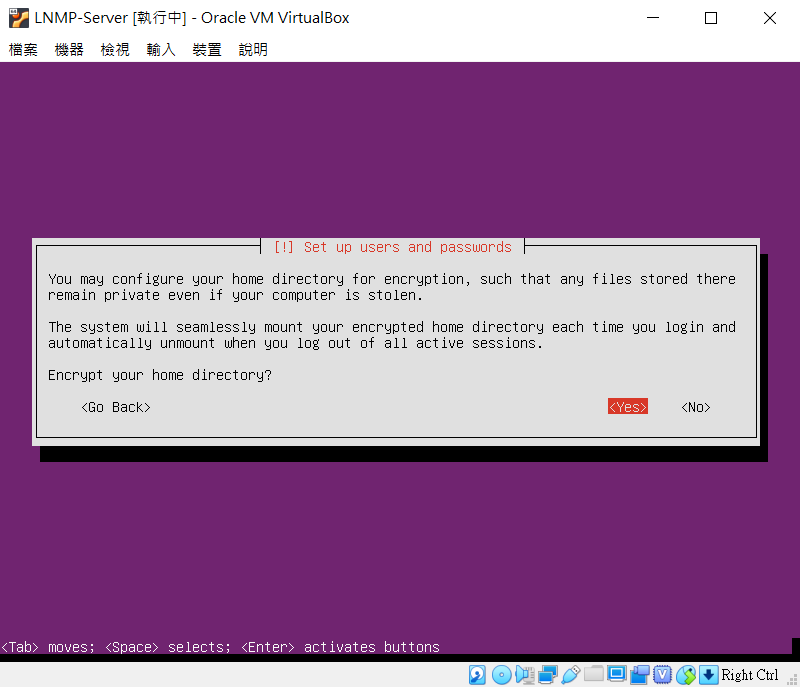
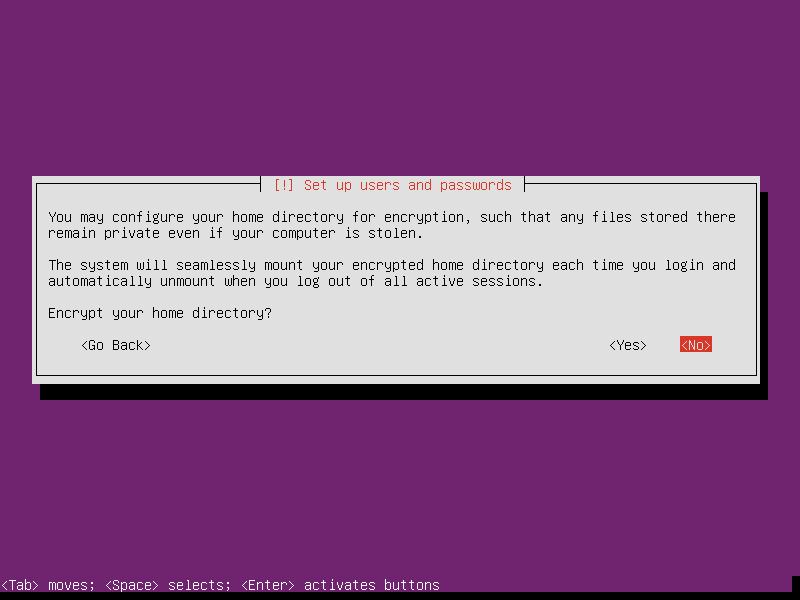
Site updated: 2019-08-15 22:58:22

diff --git a/index.html b/index.html
@@ -324,7 +324,7 @@
     
 
     <footer class="article-footer">
-      <a data-url="https://blog.mars-world.net/2019/07/24/account-security-setting/" data-id="cjyswwcae003d1wufke6ltx7o" class="article-share-link">
+      <a data-url="https://blog.mars-world.net/2019/07/24/account-security-setting/" data-id="cjzct5o1k000qlcufn5ggq8nu" class="article-share-link">
         <i class="fa fa-share"></i> Share
       </a>
       
@@ -441,7 +441,7 @@
     
 
     <footer class="article-footer">
-      <a data-url="https://blog.mars-world.net/2019/07/21/composer-install/" data-id="cjyswwc8z000j1wufbj3mh6le" class="article-share-link">
+      <a data-url="https://blog.mars-world.net/2019/07/21/composer-install/" data-id="cjzct5o1e000jlcuf2bb57jko" class="article-share-link">
         <i class="fa fa-share"></i> Share
       </a>
       
@@ -608,7 +608,7 @@
     
 
     <footer class="article-footer">
-      <a data-url="https://blog.mars-world.net/2019/07/21/git-install/" data-id="cjyswwc95000l1wufqi5tu7tj" class="article-share-link">
+      <a data-url="https://blog.mars-world.net/2019/07/21/git-install/" data-id="cjzct5o1h000llcufv5hjd8m1" class="article-share-link">
         <i class="fa fa-share"></i> Share
       </a>
       
@@ -716,7 +716,7 @@
     
 
     <footer class="article-footer">
-      <a data-url="https://blog.mars-world.net/2019/07/20/crud-design-01/" data-id="cjyswwc8w000f1wufhz3ttc6z" class="article-share-link">
+      <a data-url="https://blog.mars-world.net/2019/07/20/crud-design-01/" data-id="cjzct5o1b000flcufym0h67a2" class="article-share-link">
         <i class="fa fa-share"></i> Share
       </a>
       
@@ -900,7 +900,7 @@
 <li><p>輸入密碼</p>
 <p><img src="05-install-ubuntu-15.png" alt></p>
 </li>
-<li><p>建立帳號的家目錄[建議Yes]</p>
+<li><p>加密帳號的家目錄[建議No]</p>
 <p><img src="05-install-ubuntu-16.png" alt></p>
 </li>
 <li><p>系統時區設定 Asia/Taipei</p>
@@ -1198,7 +1198,7 @@
     
 
     <footer class="article-footer">
-      <a data-url="https://blog.mars-world.net/2019/07/19/www-server-install/" data-id="cjyswwcba003t1wufkhiarlor" class="article-share-link">
+      <a data-url="https://blog.mars-world.net/2019/07/19/www-server-install/" data-id="cjzct5o3l003tlcuff4c7crnq" class="article-share-link">
         <i class="fa fa-share"></i> Share
       </a>
       
@@ -1335,7 +1335,7 @@
     
 
     <footer class="article-footer">
-      <a data-url="https://blog.mars-world.net/2019/07/03/phpunit/" data-id="cjyswwc8u000e1wufosw8za8m" class="article-share-link">
+      <a data-url="https://blog.mars-world.net/2019/07/03/phpunit/" data-id="cjzct5o19000elcufrsbqrryf" class="article-share-link">
         <i class="fa fa-share"></i> Share
       </a>
       
@@ -1422,7 +1422,7 @@
     
 
     <footer class="article-footer">
-      <a data-url="https://blog.mars-world.net/2019/06/03/program-structure/" data-id="cjyswwc8r000a1wufhlqbbvgm" class="article-share-link">
+      <a data-url="https://blog.mars-world.net/2019/06/03/program-structure/" data-id="cjzct5o17000alcufim2dsqt1" class="article-share-link">
         <i class="fa fa-share"></i> Share
       </a>
       
@@ -1566,7 +1566,7 @@
     
 
     <footer class="article-footer">
-      <a data-url="https://blog.mars-world.net/2019/05/31/code-tracking/" data-id="cjyswwc8m00061wufonbvukwl" class="article-share-link">
+      <a data-url="https://blog.mars-world.net/2019/05/31/code-tracking/" data-id="cjzct5o130006lcuf4pkblslj" class="article-share-link">
         <i class="fa fa-share"></i> Share
       </a>
       
@@ -1651,7 +1651,7 @@
     
 
     <footer class="article-footer">
-      <a data-url="https://blog.mars-world.net/2019/05/30/nodejs-install/" data-id="cjyswwc8p00091wufsw07wedl" class="article-share-link">
+      <a data-url="https://blog.mars-world.net/2019/05/30/nodejs-install/" data-id="cjzct5o0x0005lcufm4qid693" class="article-share-link">
         <i class="fa fa-share"></i> Share
       </a>
       
@@ -1777,7 +1777,7 @@
     
 
     <footer class="article-footer">
-      <a data-url="https://blog.mars-world.net/2019/05/27/vscode-remote-ssh/" data-id="cjyswwc8j00051wuf4qur16qe" class="article-share-link">
+      <a data-url="https://blog.mars-world.net/2019/05/27/vscode-remote-ssh/" data-id="cjzct5o150009lcuf1ey3si2t" class="article-share-link">
         <i class="fa fa-share"></i> Share
       </a>
       

diff --git a/page/2/index.html b/page/2/index.html
@@ -266,7 +266,7 @@
 </tr>
 <tr>
 <td style="text-align:left">@author</td>
-<td style="text-align:left">函數建立者名稱 (Example: @author Mars <a href="mailto:&#x61;&#117;&#116;&#104;&#x6f;&#114;&#x40;&#103;&#109;&#97;&#x69;&#x6c;&#x2e;&#x63;&#111;&#x6d;" target="_blank" rel="noopener">&#x61;&#117;&#116;&#104;&#x6f;&#114;&#x40;&#103;&#109;&#97;&#x69;&#x6c;&#x2e;&#x63;&#111;&#x6d;</a>)</td>
+<td style="text-align:left">函數建立者名稱 (Example: @author Mars <a href="mailto:&#x61;&#x75;&#x74;&#104;&#111;&#114;&#64;&#x67;&#x6d;&#x61;&#105;&#108;&#x2e;&#99;&#111;&#109;" target="_blank" rel="noopener">&#x61;&#x75;&#x74;&#104;&#111;&#114;&#64;&#x67;&#x6d;&#x61;&#105;&#108;&#x2e;&#99;&#111;&#109;</a>)</td>
 </tr>
 <tr>
 <td style="text-align:left">@category</td>
@@ -666,7 +666,7 @@
     
 
     <footer class="article-footer">
-      <a data-url="https://blog.mars-world.net/2019/05/03/coding-style-standard/" data-id="cjyswwcb8003s1wufsnpz73ky" class="article-share-link">
+      <a data-url="https://blog.mars-world.net/2019/05/03/coding-style-standard/" data-id="cjzct5o3k003slcuf3xumniuv" class="article-share-link">
         <i class="fa fa-share"></i> Share
       </a>
       
@@ -789,7 +789,7 @@
     
 
     <footer class="article-footer">
-      <a data-url="https://blog.mars-world.net/2019/04/20/github-blog/" data-id="cjyswwc8h00041wuf6zo6trk8" class="article-share-link">
+      <a data-url="https://blog.mars-world.net/2019/04/20/github-blog/" data-id="cjzct5o0t0004lcufk6mlsjcm" class="article-share-link">
         <i class="fa fa-share"></i> Share
       </a>
       
@@ -943,7 +943,7 @@
     
 
     <footer class="article-footer">
-      <a data-url="https://blog.mars-world.net/2019/04/15/test-specification/" data-id="cjyswwc8c00011wuf1nugxawh" class="article-share-link">
+      <a data-url="https://blog.mars-world.net/2019/04/15/test-specification/" data-id="cjzct5o0o0001lcuf3mwtffbc" class="article-share-link">
         <i class="fa fa-share"></i> Share
       </a>
       
@@ -1017,7 +1017,7 @@
     
 
     <footer class="article-footer">
-      <a data-url="https://blog.mars-world.net/2017/09/11/dev-doc-sop-sample/" data-id="cjyswwc8300001wuftj4bx1e4" class="article-share-link">
+      <a data-url="https://blog.mars-world.net/2017/09/11/dev-doc-sop-sample/" data-id="cjzct5o0i0000lcuffogaidsv" class="article-share-link">
         <i class="fa fa-share"></i> Share
       </a>
       
@@ -1281,7 +1281,7 @@
     
 
     <footer class="article-footer">
-      <a data-url="https://blog.mars-world.net/2017/09/11/dev-doc-sop/" data-id="cjyswwcag003e1wuf2gujqsiq" class="article-share-link">
+      <a data-url="https://blog.mars-world.net/2017/09/11/dev-doc-sop/" data-id="cjzct5o2t003nlcufg0v8lwyv" class="article-share-link">
         <i class="fa fa-share"></i> Share
       </a>
       

diff --git a/2019/07/19/www-server-install/index.html b/2019/07/19/www-server-install/index.html
@@ -74,7 +74,7 @@
 <meta property="og:image" content="https://blog.mars-world.net/2019/07/19/www-server-install/2019-07-19-www-server-install/dns-resolve.png">
 <meta property="og:image" content="https://blog.mars-world.net/2019/07/19/www-server-install/09-ca-install-01.png">
 <meta property="og:image" content="https://blog.mars-world.net/2019/07/19/www-server-install/2019-07-19-www-server-install/dns-resolve.png">
-<meta property="og:updated_time" content="2019-07-29T15:04:32.700Z">
+<meta property="og:updated_time" content="2019-08-15T14:53:32.614Z">
 <meta name="twitter:card" content="summary">
 <meta name="twitter:title" content="Web伺服器安裝(LNMP)">
 <meta name="twitter:description" content="一、說明安裝網頁執行平台，以供開發作業 很多人都知道，windows有不少PHP開發環境的安裝包，如xampp, appserv, wamp，但一個成熟的開發者，是不會用和線上不一樣的環境開發的，這會導至開發出來的程式有無法預期的錯誤，所以學習安裝一個LNMP環境是有必要的。 二、環境 windows virtualbox Ubuntu 16.04 Nignx 1.10 PHP 7 MySQL 5">
@@ -307,7 +307,7 @@
 <li><p>輸入密碼</p>
 <p><img src="05-install-ubuntu-15.png" alt></p>
 </li>
-<li><p>建立帳號的家目錄[建議Yes]</p>
+<li><p>加密帳號的家目錄[建議No]</p>
 <p><img src="05-install-ubuntu-16.png" alt></p>
 </li>
 <li><p>系統時區設定 Asia/Taipei</p>
@@ -605,7 +605,7 @@
     
 
     <footer class="article-footer">
-      <a data-url="https://blog.mars-world.net/2019/07/19/www-server-install/" data-id="cjyswwcba003t1wufkhiarlor" class="article-share-link">
+      <a data-url="https://blog.mars-world.net/2019/07/19/www-server-install/" data-id="cjzct5o3l003tlcuff4c7crnq" class="article-share-link">
         <i class="fa fa-share"></i> Share
       </a>
       

diff --git a/2019/05/03/coding-style-standard/index.html b/2019/05/03/coding-style-standard/index.html
@@ -268,7 +268,7 @@
 </tr>
 <tr>
 <td style="text-align:left">@author</td>
-<td style="text-align:left">函數建立者名稱 (Example: @author Mars <a href="mailto:&#x61;&#117;&#116;&#104;&#x6f;&#114;&#x40;&#103;&#109;&#97;&#x69;&#x6c;&#x2e;&#x63;&#111;&#x6d;" target="_blank" rel="noopener">&#x61;&#117;&#116;&#104;&#x6f;&#114;&#x40;&#103;&#109;&#97;&#x69;&#x6c;&#x2e;&#x63;&#111;&#x6d;</a>)</td>
+<td style="text-align:left">函數建立者名稱 (Example: @author Mars <a href="mailto:&#x61;&#x75;&#x74;&#104;&#111;&#114;&#64;&#x67;&#x6d;&#x61;&#105;&#108;&#x2e;&#99;&#111;&#109;" target="_blank" rel="noopener">&#x61;&#x75;&#x74;&#104;&#111;&#114;&#64;&#x67;&#x6d;&#x61;&#105;&#108;&#x2e;&#99;&#111;&#109;</a>)</td>
 </tr>
 <tr>
 <td style="text-align:left">@category</td>
@@ -668,7 +668,7 @@
     
 
     <footer class="article-footer">
-      <a data-url="https://blog.mars-world.net/2019/05/03/coding-style-standard/" data-id="cjyswwcb8003s1wufsnpz73ky" class="article-share-link">
+      <a data-url="https://blog.mars-world.net/2019/05/03/coding-style-standard/" data-id="cjzct5o3k003slcuf3xumniuv" class="article-share-link">
         <i class="fa fa-share"></i> Share
       </a>
       

diff --git a/2019/07/24/account-security-setting/index.html b/2019/07/24/account-security-setting/index.html
@@ -346,7 +346,7 @@
     
 
     <footer class="article-footer">
-      <a data-url="https://blog.mars-world.net/2019/07/24/account-security-setting/" data-id="cjyswwcae003d1wufke6ltx7o" class="article-share-link">
+      <a data-url="https://blog.mars-world.net/2019/07/24/account-security-setting/" data-id="cjzct5o1k000qlcufn5ggq8nu" class="article-share-link">
         <i class="fa fa-share"></i> Share
       </a>
       

diff --git a/2017/09/11/dev-doc-sop-sample/index.html b/2017/09/11/dev-doc-sop-sample/index.html
@@ -135,7 +135,7 @@
     
 
     <footer class="article-footer">
-      <a data-url="https://blog.mars-world.net/2017/09/11/dev-doc-sop-sample/" data-id="cjyswwc8300001wuftj4bx1e4" class="article-share-link">
+      <a data-url="https://blog.mars-world.net/2017/09/11/dev-doc-sop-sample/" data-id="cjzct5o0i0000lcuffogaidsv" class="article-share-link">
         <i class="fa fa-share"></i> Share
       </a>
       

diff --git a/2019/04/15/test-specification/index.html b/2019/04/15/test-specification/index.html
@@ -215,7 +215,7 @@
     
 
     <footer class="article-footer">
-      <a data-url="https://blog.mars-world.net/2019/04/15/test-specification/" data-id="cjyswwc8c00011wuf1nugxawh" class="article-share-link">
+      <a data-url="https://blog.mars-world.net/2019/04/15/test-specification/" data-id="cjzct5o0o0001lcuf3mwtffbc" class="article-share-link">
         <i class="fa fa-share"></i> Share
       </a>
       

diff --git a/2019/05/27/vscode-remote-ssh/index.html b/2019/05/27/vscode-remote-ssh/index.html
@@ -191,7 +191,7 @@
     
 
     <footer class="article-footer">
-      <a data-url="https://blog.mars-world.net/2019/05/27/vscode-remote-ssh/" data-id="cjyswwc8j00051wuf4qur16qe" class="article-share-link">
+      <a data-url="https://blog.mars-world.net/2019/05/27/vscode-remote-ssh/" data-id="cjzct5o150009lcuf1ey3si2t" class="article-share-link">
         <i class="fa fa-share"></i> Share
       </a>
       

diff --git a/2019/06/03/program-structure/index.html b/2019/06/03/program-structure/index.html
@@ -148,7 +148,7 @@
     
 
     <footer class="article-footer">
-      <a data-url="https://blog.mars-world.net/2019/06/03/program-structure/" data-id="cjyswwc8r000a1wufhlqbbvgm" class="article-share-link">
+      <a data-url="https://blog.mars-world.net/2019/06/03/program-structure/" data-id="cjzct5o17000alcufim2dsqt1" class="article-share-link">
         <i class="fa fa-share"></i> Share
       </a>
       

diff --git a/2019/07/21/composer-install/index.html b/2019/07/21/composer-install/index.html
@@ -178,7 +178,7 @@
     
 
     <footer class="article-footer">
-      <a data-url="https://blog.mars-world.net/2019/07/21/composer-install/" data-id="cjyswwc8z000j1wufbj3mh6le" class="article-share-link">
+      <a data-url="https://blog.mars-world.net/2019/07/21/composer-install/" data-id="cjzct5o1e000jlcuf2bb57jko" class="article-share-link">
         <i class="fa fa-share"></i> Share
       </a>
       

diff --git a/2019/05/30/nodejs-install/index.html b/2019/05/30/nodejs-install/index.html
@@ -146,7 +146,7 @@
     
 
     <footer class="article-footer">
-      <a data-url="https://blog.mars-world.net/2019/05/30/nodejs-install/" data-id="cjyswwc8p00091wufsw07wedl" class="article-share-link">
+      <a data-url="https://blog.mars-world.net/2019/05/30/nodejs-install/" data-id="cjzct5o0x0005lcufm4qid693" class="article-share-link">
         <i class="fa fa-share"></i> Share
       </a>
       

diff --git a/2019/07/20/crud-design-01/index.html b/2019/07/20/crud-design-01/index.html
@@ -172,7 +172,7 @@
     
 
     <footer class="article-footer">
-      <a data-url="https://blog.mars-world.net/2019/07/20/crud-design-01/" data-id="cjyswwc8w000f1wufhz3ttc6z" class="article-share-link">
+      <a data-url="https://blog.mars-world.net/2019/07/20/crud-design-01/" data-id="cjzct5o1b000flcufym0h67a2" class="article-share-link">
         <i class="fa fa-share"></i> Share
       </a>
       
